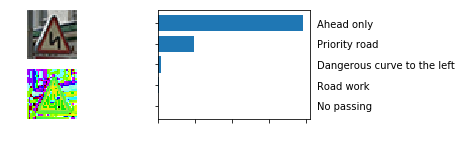
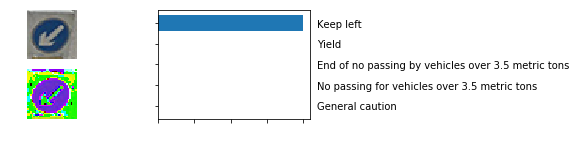
P2

diff --git a/P2-CarND-Traffic-Sign-Classifier-Project/writeup_2.md b/P2-CarND-Traffic-Sign-Classifier-Project/writeup_2.md
@@ -272,13 +272,128 @@ Here are the results of the prediction with related comments:
 
 The code for making predictions on my final model is located in the cell N. 22 of the Ipython notebook.
 
-Here below you can find the top 5 softmax probabilities for each image along with each probability and visualizations are provided such as bar charts
+Here below you can find the top 5 softmax probabilities for each image along with each probability and visualizations are provided such as bar charts. For the exact values of predicted probabilities, please see cell N. 24 of the Ipython notebook.
 
 0  - Actual Class  21 [ Double curve ] - Predicted Class: 35 [ Ahead only ] 
+<img src="images/p0.png" />  
+
+1  - Actual Class  39 [ Keep left ] - Predicted Class: 39 [ Keep left ]
 <img src="images/p1.png" />  
 
+2  - Actual Class  17 [ No entry ] - Predicted Class: 17 [ No entry ]
+<img src="images/p2.png" />  
+
+3  - Actual Class  17 [ No entry ] - Predicted Class: 17 [ No entry ]
+<img src="images/p3.png" />  
+
+4  - Actual Class  17 [ No entry ] - Predicted Class: 17 [ No entry ]
+<img src="images/p4.png" />  
+
+5  - Actual Class  39 [ Keep left ] - Predicted Class: 39 [ Keep left ]
+<img src="images/p5.png" />  
+
+6  - Actual Class  39 [ Keep left ] - Predicted Class: 39 [ Keep left ]
+<img src="images/p6.png" />  
+
+7  - Actual Class  40 [ Roundabout mandatory ] - Predicted Class: 40 [ Roundabout mandatory ]
+<img src="images/p7.png" />  
+
+8  - Actual Class  40 [ Roundabout mandatory ] - Predicted Class: 40 [ Roundabout mandatory ]
+<img src="images/p8.png" />  
+
+9  - Actual Class  34 [ Turn left ahead ] - Predicted Class: 34 [ Turn left ahead ]
+<img src="images/p9.png" />  
+
+10  - Actual Class  28 [ Children crossing ] - Predicted Class: 28 [ Children crossing ]
+<img src="images/p10.png" />  
+
+11  - Actual Class  39 [ Keep left ] - Predicted Class: 39 [ Keep left ]
+<img src="images/p11.png" />  
+
+12  - Actual Class  0 [ Speed limit (20km/h) ] - Predicted Class: 5 [ Speed limit (80km/h) ]
+<img src="images/p12.png" />  
+
 0  - Actual Class  21 [ Double curve ] - Predicted Class: 35 [ Ahead only ] 
-<img src="images/p1.png" />  
+<img src="images/p0.png" />  
+
+0  - Actual Class  21 [ Double curve ] - Predicted Class: 35 [ Ahead only ] 
+<img src="images/p0.png" />  
+
+0  - Actual Class  21 [ Double curve ] - Predicted Class: 35 [ Ahead only ] 
+<img src="images/p0.png" />  
+
+0  - Actual Class  21 [ Double curve ] - Predicted Class: 35 [ Ahead only ] 
+<img src="images/p0.png" />  
+
+0  - Actual Class  21 [ Double curve ] - Predicted Class: 35 [ Ahead only ] 
+<img src="images/p0.png" />  
+
+0  - Actual Class  21 [ Double curve ] - Predicted Class: 35 [ Ahead only ] 
+<img src="images/p0.png" />  
+
+0  - Actual Class  21 [ Double curve ] - Predicted Class: 35 [ Ahead only ] 
+<img src="images/p0.png" />  
+
+0  - Actual Class  21 [ Double curve ] - Predicted Class: 35 [ Ahead only ] 
+<img src="images/p0.png" />  
+
+0  - Actual Class  21 [ Double curve ] - Predicted Class: 35 [ Ahead only ] 
+<img src="images/p0.png" />  
+
+0  - Actual Class  21 [ Double curve ] - Predicted Class: 35 [ Ahead only ] 
+<img src="images/p0.png" />  
+
+0  - Actual Class  21 [ Double curve ] - Predicted Class: 35 [ Ahead only ] 
+<img src="images/p0.png" />  
+
+0  - Actual Class  21 [ Double curve ] - Predicted Class: 35 [ Ahead only ] 
+<img src="images/p0.png" />  
+
+0  - Actual Class  21 [ Double curve ] - Predicted Class: 35 [ Ahead only ] 
+<img src="images/p0.png" />  
+
+0  - Actual Class  21 [ Double curve ] - Predicted Class: 35 [ Ahead only ] 
+<img src="images/p0.png" />  
+
+0  - Actual Class  21 [ Double curve ] - Predicted Class: 35 [ Ahead only ] 
+<img src="images/p0.png" />  
+
+0  - Actual Class  21 [ Double curve ] - Predicted Class: 35 [ Ahead only ] 
+<img src="images/p0.png" />  
+
+0  - Actual Class  21 [ Double curve ] - Predicted Class: 35 [ Ahead only ] 
+<img src="images/p0.png" />  
+
+0  - Actual Class  21 [ Double curve ] - Predicted Class: 35 [ Ahead only ] 
+<img src="images/p0.png" />  
+
+0  - Actual Class  21 [ Double curve ] - Predicted Class: 35 [ Ahead only ] 
+<img src="images/p0.png" />  
+
+0  - Actual Class  21 [ Double curve ] - Predicted Class: 35 [ Ahead only ] 
+<img src="images/p0.png" />  
+
+0  - Actual Class  21 [ Double curve ] - Predicted Class: 35 [ Ahead only ] 
+<img src="images/p0.png" />  
+
+0  - Actual Class  21 [ Double curve ] - Predicted Class: 35 [ Ahead only ] 
+<img src="images/p0.png" />  
+
+0  - Actual Class  21 [ Double curve ] - Predicted Class: 35 [ Ahead only ] 
+<img src="images/p0.png" />  
+
+0  - Actual Class  21 [ Double curve ] - Predicted Class: 35 [ Ahead only ] 
+<img src="images/p0.png" />  
+
+0  - Actual Class  21 [ Double curve ] - Predicted Class: 35 [ Ahead only ] 
+<img src="images/p0.png" />  
+
+0  - Actual Class  21 [ Double curve ] - Predicted Class: 35 [ Ahead only ] 
+<img src="images/p0.png" />  
+
+0  - Actual Class  21 [ Double curve ] - Predicted Class: 35 [ Ahead only ] 
+<img src="images/p0.png" />  
+
 
 
 ## (Optional) Visualizing the Neural Network (See Step 4 of the Ipython notebook for more details)
